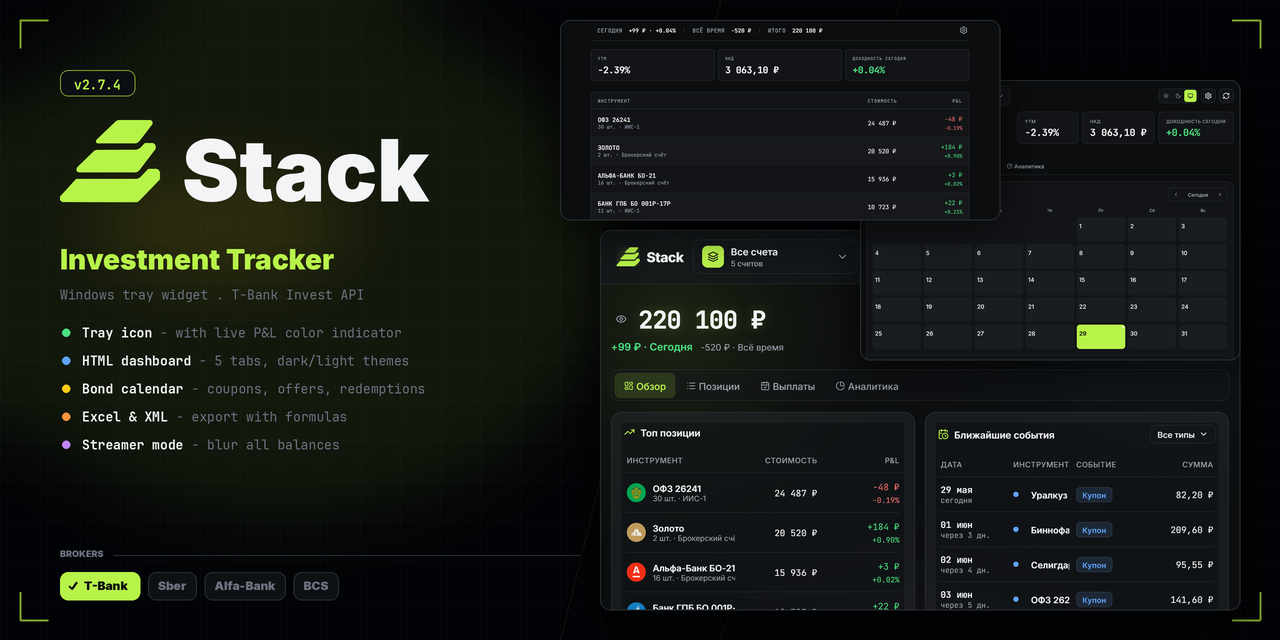
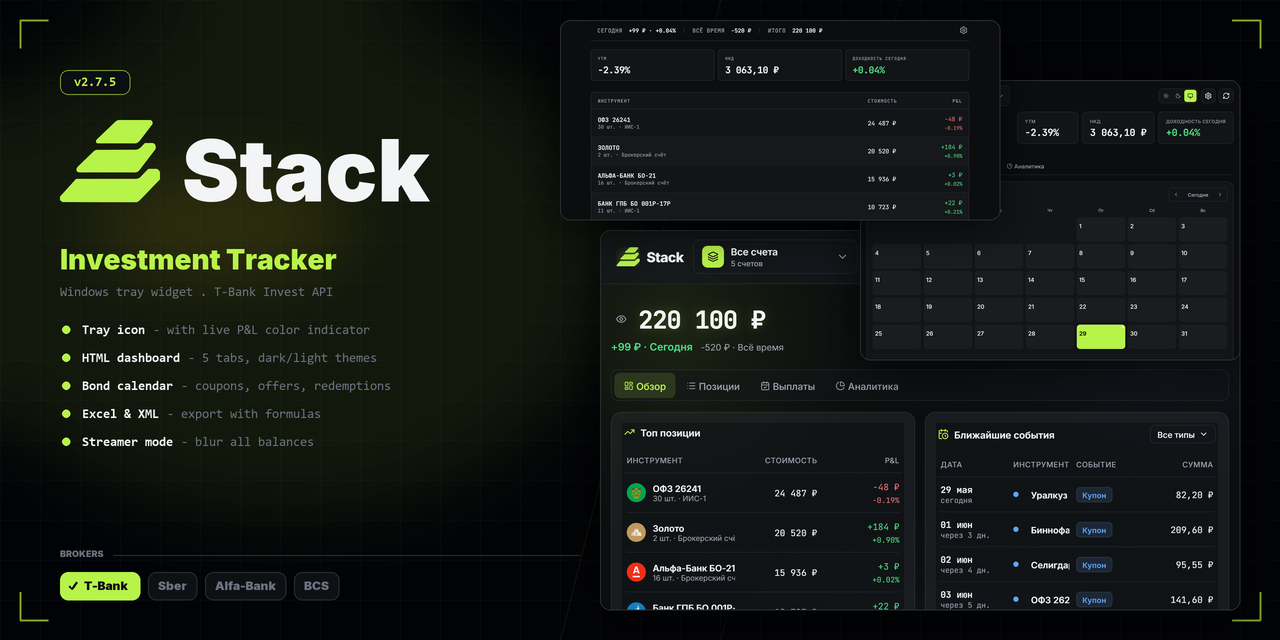
v2.7.5.1

diff --git a/assets/dashboard.html b/assets/dashboard.html
@@ -498,10 +498,40 @@ body.light .hero-stat{box-shadow:0 1px 3px rgba(0,0,0,.04)}
 
 /* ── Overview: 2-колоночная сетка (Топ позиции + Ближайшие события) ── */
 .overview-grid{display:grid;grid-template-columns:1fr 1fr;gap:14px;margin-top:8px}
+/* Свободные средства (рубль-кэш) по счетам — мини-карточки */
+.fc-card{position:relative;background:var(--bg2);border:1px solid var(--border);border-radius:var(--radius);padding:16px 18px 18px;box-shadow:var(--shadow-card);margin-bottom:14px;overflow:hidden}
+/* Лаймовая полоса-акцент слева сверху */
+.fc-card::before{content:'';position:absolute;left:0;top:0;bottom:0;width:3px;background:linear-gradient(180deg,var(--accent),rgba(184,243,74,0));border-radius:0 2px 2px 0}
+.fc-head{margin-bottom:14px}
+.fc-eyebrow{display:flex;align-items:center;gap:7px;font-size:11px;font-weight:700;text-transform:uppercase;letter-spacing:.6px;color:var(--muted);margin-bottom:6px}
+.fc-summary{display:flex;align-items:baseline;justify-content:space-between;gap:14px;flex-wrap:wrap}
+.fc-total{font-family:var(--font-mono);font-weight:800;font-size:26px;color:var(--text);letter-spacing:-.6px;line-height:1}
+.fc-count{font-size:12px;color:var(--muted);font-weight:500;font-family:var(--font-mono)}
+.fc-list{display:grid;grid-template-columns:repeat(auto-fit,minmax(150px,1fr));gap:10px}
+.fc-row{position:relative;background:linear-gradient(135deg,rgba(184,243,74,.06),rgba(184,243,74,.015));border:1px solid var(--border);border-radius:10px;padding:11px 13px 12px;transition:all .15s;cursor:default}
+.fc-row:hover{border-color:rgba(184,243,74,.40);transform:translateY(-1px);box-shadow:0 4px 12px rgba(0,0,0,.18)}
+.fc-acc-name{font-size:10px;text-transform:uppercase;letter-spacing:.5px;color:var(--muted);font-weight:600;margin-bottom:6px;white-space:nowrap;overflow:hidden;text-overflow:ellipsis}
+.fc-acc-amount{font-family:var(--font-mono);font-weight:700;font-size:15px;color:var(--text);letter-spacing:-.3px;display:flex;align-items:baseline;justify-content:space-between;gap:6px;white-space:nowrap}
+.fc-acc-pct{font-size:10px;color:var(--accent);font-weight:700;font-family:var(--font-mono);flex-shrink:0}
+.fc-bar{margin-top:8px;height:3px;background:rgba(255,255,255,.04);border-radius:2px;overflow:hidden}
+.fc-bar>span{display:block;height:100%;background:linear-gradient(90deg,var(--accent),rgba(184,243,74,.4));border-radius:2px;transition:width .4s ease}
+.streamer .fc-total,.streamer .fc-acc-amount,.streamer .fc-acc-pct{filter:blur(9px)}
+body.light .fc-row{background:linear-gradient(135deg,rgba(184,243,74,.10),rgba(184,243,74,.02))}
+body.light .fc-bar{background:rgba(0,0,0,.04)}
+/* В упрощённом дизайне блок скрываем — там минимализм */
+body.simple #freeCashWrap{display:none!important}
+/* Glass: frosted */
+body.glass .fc-card{background:var(--glass-bg)!important;-webkit-backdrop-filter:var(--glass-blur);backdrop-filter:var(--glass-blur);border:1px solid var(--glass-border)!important;box-shadow:var(--glass-shadow)}
+body.glass .fc-row{background:linear-gradient(135deg,rgba(184,243,74,.10),rgba(184,243,74,.02))!important;border-color:var(--glass-border)!important}
 @media(max-width:900px){.overview-grid{grid-template-columns:1fr}}
-.overview-section{background:var(--bg2);border:1px solid var(--border);border-radius:var(--radius);padding:18px;display:flex;flex-direction:column}
+.overview-section{position:relative;background:var(--bg2);border:1px solid var(--border);border-radius:var(--radius);padding:18px;display:flex;flex-direction:column;overflow:hidden}
+/* Лаймовая полоса-акцент слева (как у карточки "Свободные средства") */
+.overview-section::before{content:'';position:absolute;left:0;top:0;bottom:0;width:3px;background:linear-gradient(180deg,var(--accent),rgba(184,243,74,0));border-radius:0 2px 2px 0;pointer-events:none}
 .overview-section-head{display:flex;justify-content:space-between;align-items:center;margin-bottom:12px;gap:10px}
-.overview-section-title{display:flex;align-items:center;gap:8px;font-size:14px;font-weight:600}
+.overview-section-title{display:flex;align-items:center;gap:8px;font-size:12px;font-weight:700;text-transform:uppercase;letter-spacing:.6px;color:var(--muted)}
+.overview-section-title i,.overview-section-title svg{color:var(--accent);width:14px!important;height:14px!important}
+/* Мета-инфо рядом с заголовком (count / total) */
+.overview-section-meta{font-size:12px;color:var(--muted);font-family:var(--font-mono);font-weight:500}
 .overview-table-head{display:grid;gap:10px;padding:10px 4px;border-bottom:1px solid var(--divider);font-size:11px;color:var(--muted);text-transform:uppercase;letter-spacing:.4px;font-weight:500}
 .overview-table-head.three-col{grid-template-columns:1fr 110px 110px}
 .overview-table-head.four-col{grid-template-columns:96px 1fr 100px 90px}
@@ -965,11 +995,23 @@ body.light .lb-group.open{background:rgba(0,0,0,.02)}
     </div>
     <div class="cards" id="statCards" style="display:none"></div>
     <div id="riskBanner"></div>
+    <!-- Свободные средства (рубль-кэш) по счетам -->
+    <div class="fc-card" id="freeCashWrap" style="display:none">
+      <div class="fc-head">
+        <div class="fc-eyebrow"><i data-lucide="wallet" style="width:14px;height:14px;color:var(--accent)"></i> Свободно на счетах</div>
+        <div class="fc-summary">
+          <div class="fc-total" id="fcTotal"></div>
+          <div class="fc-count" id="fcCount"></div>
+        </div>
+      </div>
+      <div class="fc-list" id="fcList"></div>
+    </div>
     <!-- 2-колоночный обзор: Топ позиции слева | Ближайшие события справа -->
     <div class="overview-grid">
       <div class="overview-section" id="topPosWrap">
         <div class="overview-section-head">
-          <div class="overview-section-title"><i data-lucide="trending-up" style="width:16px;height:16px;color:var(--accent)"></i> Топ позиции</div>
+          <div class="overview-section-title"><i data-lucide="trending-up"></i> Топ позиции</div>
+          <div class="overview-section-meta" id="topPosMeta"></div>
         </div>
         <!-- Панель сортировки/фильтра — только в упрощённом дизайне -->
         <div class="simple-pos-controls" id="simplePosControls">
@@ -994,7 +1036,8 @@ body.light .lb-group.open{background:rgba(0,0,0,.02)}
       </div>
       <div class="overview-section" id="upcomingWrap">
         <div class="overview-section-head">
-          <div class="overview-section-title"><i data-lucide="calendar-clock" style="width:16px;height:16px;color:var(--accent)"></i> Ближайшие события</div>
+          <div class="overview-section-title"><i data-lucide="calendar-clock"></i> Ближайшие события</div>
+          <div class="overview-section-meta" id="upcomingMeta" style="margin-right:auto;margin-left:6px"></div>
           <div class="up-filter" id="upFilterWrap">
             <button type="button" class="up-filter-btn" id="upFilterBtn" aria-haspopup="listbox" aria-expanded="false">
               <span id="upFilterLabel">Все типы</span>
@@ -2089,6 +2132,9 @@ function render(data){
   } else if(ul) {
     ul.innerHTML='<div class="empty" style="padding:24px;color:var(--muted);font-size:13px">\u041d\u0435\u0442 \u0441\u043e\u0431\u044b\u0442\u0438\u0439</div>';
   }
+  // \u041c\u0435\u0442\u0430: \u0432\u0441\u0435\u0433\u043e N \u0441\u043e\u0431\u044b\u0442\u0438\u0439 \u0432\u043f\u0435\u0440\u0435\u0434\u0438
+  var umEl=document.getElementById('upcomingMeta');
+  if(umEl){var ne=futEvts.length;umEl.textContent=ne+' '+(ne%10===1&&ne%100!==11?'\u0441\u043e\u0431\u044b\u0442\u0438\u0435':(ne%10>=2&&ne%10<=4&&(ne%100<10||ne%100>=20)?'\u0441\u043e\u0431\u044b\u0442\u0438\u044f':'\u0441\u043e\u0431\u044b\u0442\u0438\u0439'));}
 
   // \u2500\u2500 Top positions: \u0442\u0430\u0431\u043b\u0438\u0447\u043d\u044b\u0439 \u0444\u043e\u0440\u043c\u0430\u0442 \u0441 \u0446\u0432\u0435\u0442\u043d\u043e\u0439 \u0438\u043a\u043e\u043d\u043a\u043e\u0439 \u0442\u0438\u043f\u0430 \u2500\u2500
   var _simple=document.body.classList.contains('simple');
@@ -2136,6 +2182,9 @@ function render(data){
     });
   }
   var tpEl=document.getElementById('topPositions');if(tpEl)tpEl.innerHTML=th;
+  // Мета: всего N позиций
+  var tmEl=document.getElementById('topPosMeta');
+  if(tmEl){var fn=fPos.length;tmEl.textContent=fn+' '+(fn%10===1&&fn%100!==11?'позиция':(fn%10>=2&&fn%10<=4&&(fn%100<10||fn%100>=20)?'позиции':'позиций'));}
   // \u041b\u0438\u043d\u043a\u0438 "\u0421\u043c\u043e\u0442\u0440\u0435\u0442\u044c \u0432\u0441\u0435" / "\u041a\u0430\u043b\u0435\u043d\u0434\u0430\u0440\u044c"
   var tpL=document.getElementById('topPosLink');
   if(tpL)tpL.onclick=function(e){e.preventDefault();activeTab='positions';setActiveTab(activeTab)};
@@ -2159,6 +2208,7 @@ function render(data){
   else { _chartsFresh=false; }
   renderAnalyticsCards(fPos,ytm,tNkd);
   renderMovers(fPos);
+  renderFreeCash(fPos);
   // Sync settings UI
   var cl=document.getElementById('chkLogos');if(cl)cl.checked=useLogos;
   var cau=document.getElementById('chkAutoUpdate');if(cau)cau.checked=!!(data.auto_update!==false);
@@ -2800,6 +2850,42 @@ function renderMovers(positions){
   h+= l.length?l.map(function(p){return row(p,'dn')}).join(''):'<div class="empty" style="padding:14px 0;color:var(--muted);font-size:13px">\u041d\u0435\u0442 \u043f\u0430\u0434\u0435\u043d\u0438\u0439</div>';
   h+='</div></div>';
   var _g_moversBlock=document.getElementById('moversBlock');if(_g_moversBlock)_g_moversBlock.innerHTML=h;
+}
+
+// Свободные средства (рубль-кэш) по счетам — мини-карточки с долей.
+function renderFreeCash(positions){
+  var wrap=document.getElementById('freeCashWrap');
+  if(!wrap)return;
+  var byAcc={};
+  positions.forEach(function(p){
+    if(p.instrumentType!=='currency')return;
+    if(_assetCurrency(p)!=='RUB')return;
+    var key=p.account_id||p.account_name||'?';
+    if(!byAcc[key])byAcc[key]={name:p.account_name||'Счёт',sum:0};
+    byAcc[key].sum+=(p.current_value||0);
+  });
+  var rows=Object.values(byAcc).filter(function(a){return a.sum>0.5}).sort(function(a,b){return b.sum-a.sum});
+  if(!rows.length){wrap.style.display='none';return}
+  wrap.style.display='';
+  var total=rows.reduce(function(s,a){return s+a.sum},0);
+  var tEl=document.getElementById('fcTotal');if(tEl)tEl.textContent=fmt(total);
+  var cEl=document.getElementById('fcCount');
+  if(cEl){
+    var n=rows.length;
+    var word=(n%10===1&&n%100!==11)?'счёт':((n%10>=2&&n%10<=4&&(n%100<10||n%100>=20))?'счёта':'счетов');
+    cEl.textContent='на '+n+' '+word;
+  }
+  var listEl=document.getElementById('fcList');
+  if(listEl){
+    listEl.innerHTML=rows.map(function(a){
+      var pct=total>0?(a.sum/total*100):0;
+      return '<div class="fc-row">'+
+        '<div class="fc-acc-name">'+esc(a.name)+'</div>'+
+        '<div class="fc-acc-amount">'+fmt(a.sum)+'<span class="fc-acc-pct">'+pct.toFixed(0)+'%</span></div>'+
+        '<div class="fc-bar"><span style="width:'+pct.toFixed(1)+'%"></span></div>'+
+        '</div>';
+    }).join('');
+  }
 }
 
 function calcYTM(ba){var wS=0,wY=0;ba.forEach(function(b){if(!b.maturity_date||!b.face_value)return;var y=(new Date(b.maturity_date)-Date.now())/(365.25*864e5);if(y<=0)return;var v=(b.annual_coupon+(b.face_value-b.current_price)/y)/((b.face_value+b.current_price)/2)*100;var w=b.qty*b.current_price;wS+=w;wY+=v*w});return wS>0?wY/wS:null}

diff --git a/tools/gen_social_preview.py b/tools/gen_social_preview.py
@@ -514,7 +514,8 @@ def draw_left_panel(draw: ImageDraw.ImageDraw, img: Image.Image, loc: dict):
     draw.text((pad_l, sub_y), loc["subtitle"], font=f_sub, fill=MUTED)
 
     # ── 3. Список фич (точки строго центрируем по cap-height текста) ──
-    feature_colors = [GREEN, BLUE, YELLOW, ORANGE, PURPLE]
+    # Все точки одного цвета — фирменный лайм, без радуги.
+    feature_colors = [LIME, LIME, LIME, LIME, LIME]
     f_feat_b = fnt(13, bold=True, mono=True)
     f_feat_n = fnt(13, mono=True)
 

diff --git a/version.py b/version.py
@@ -2,5 +2,5 @@
 version.py — единый источник версии приложения.
 Меняется только здесь — подтянется везде автоматически.
 """
-APP_VERSION = "2.7.4"
+APP_VERSION = "2.7.5"
 APP_NAME    = "Stack"
